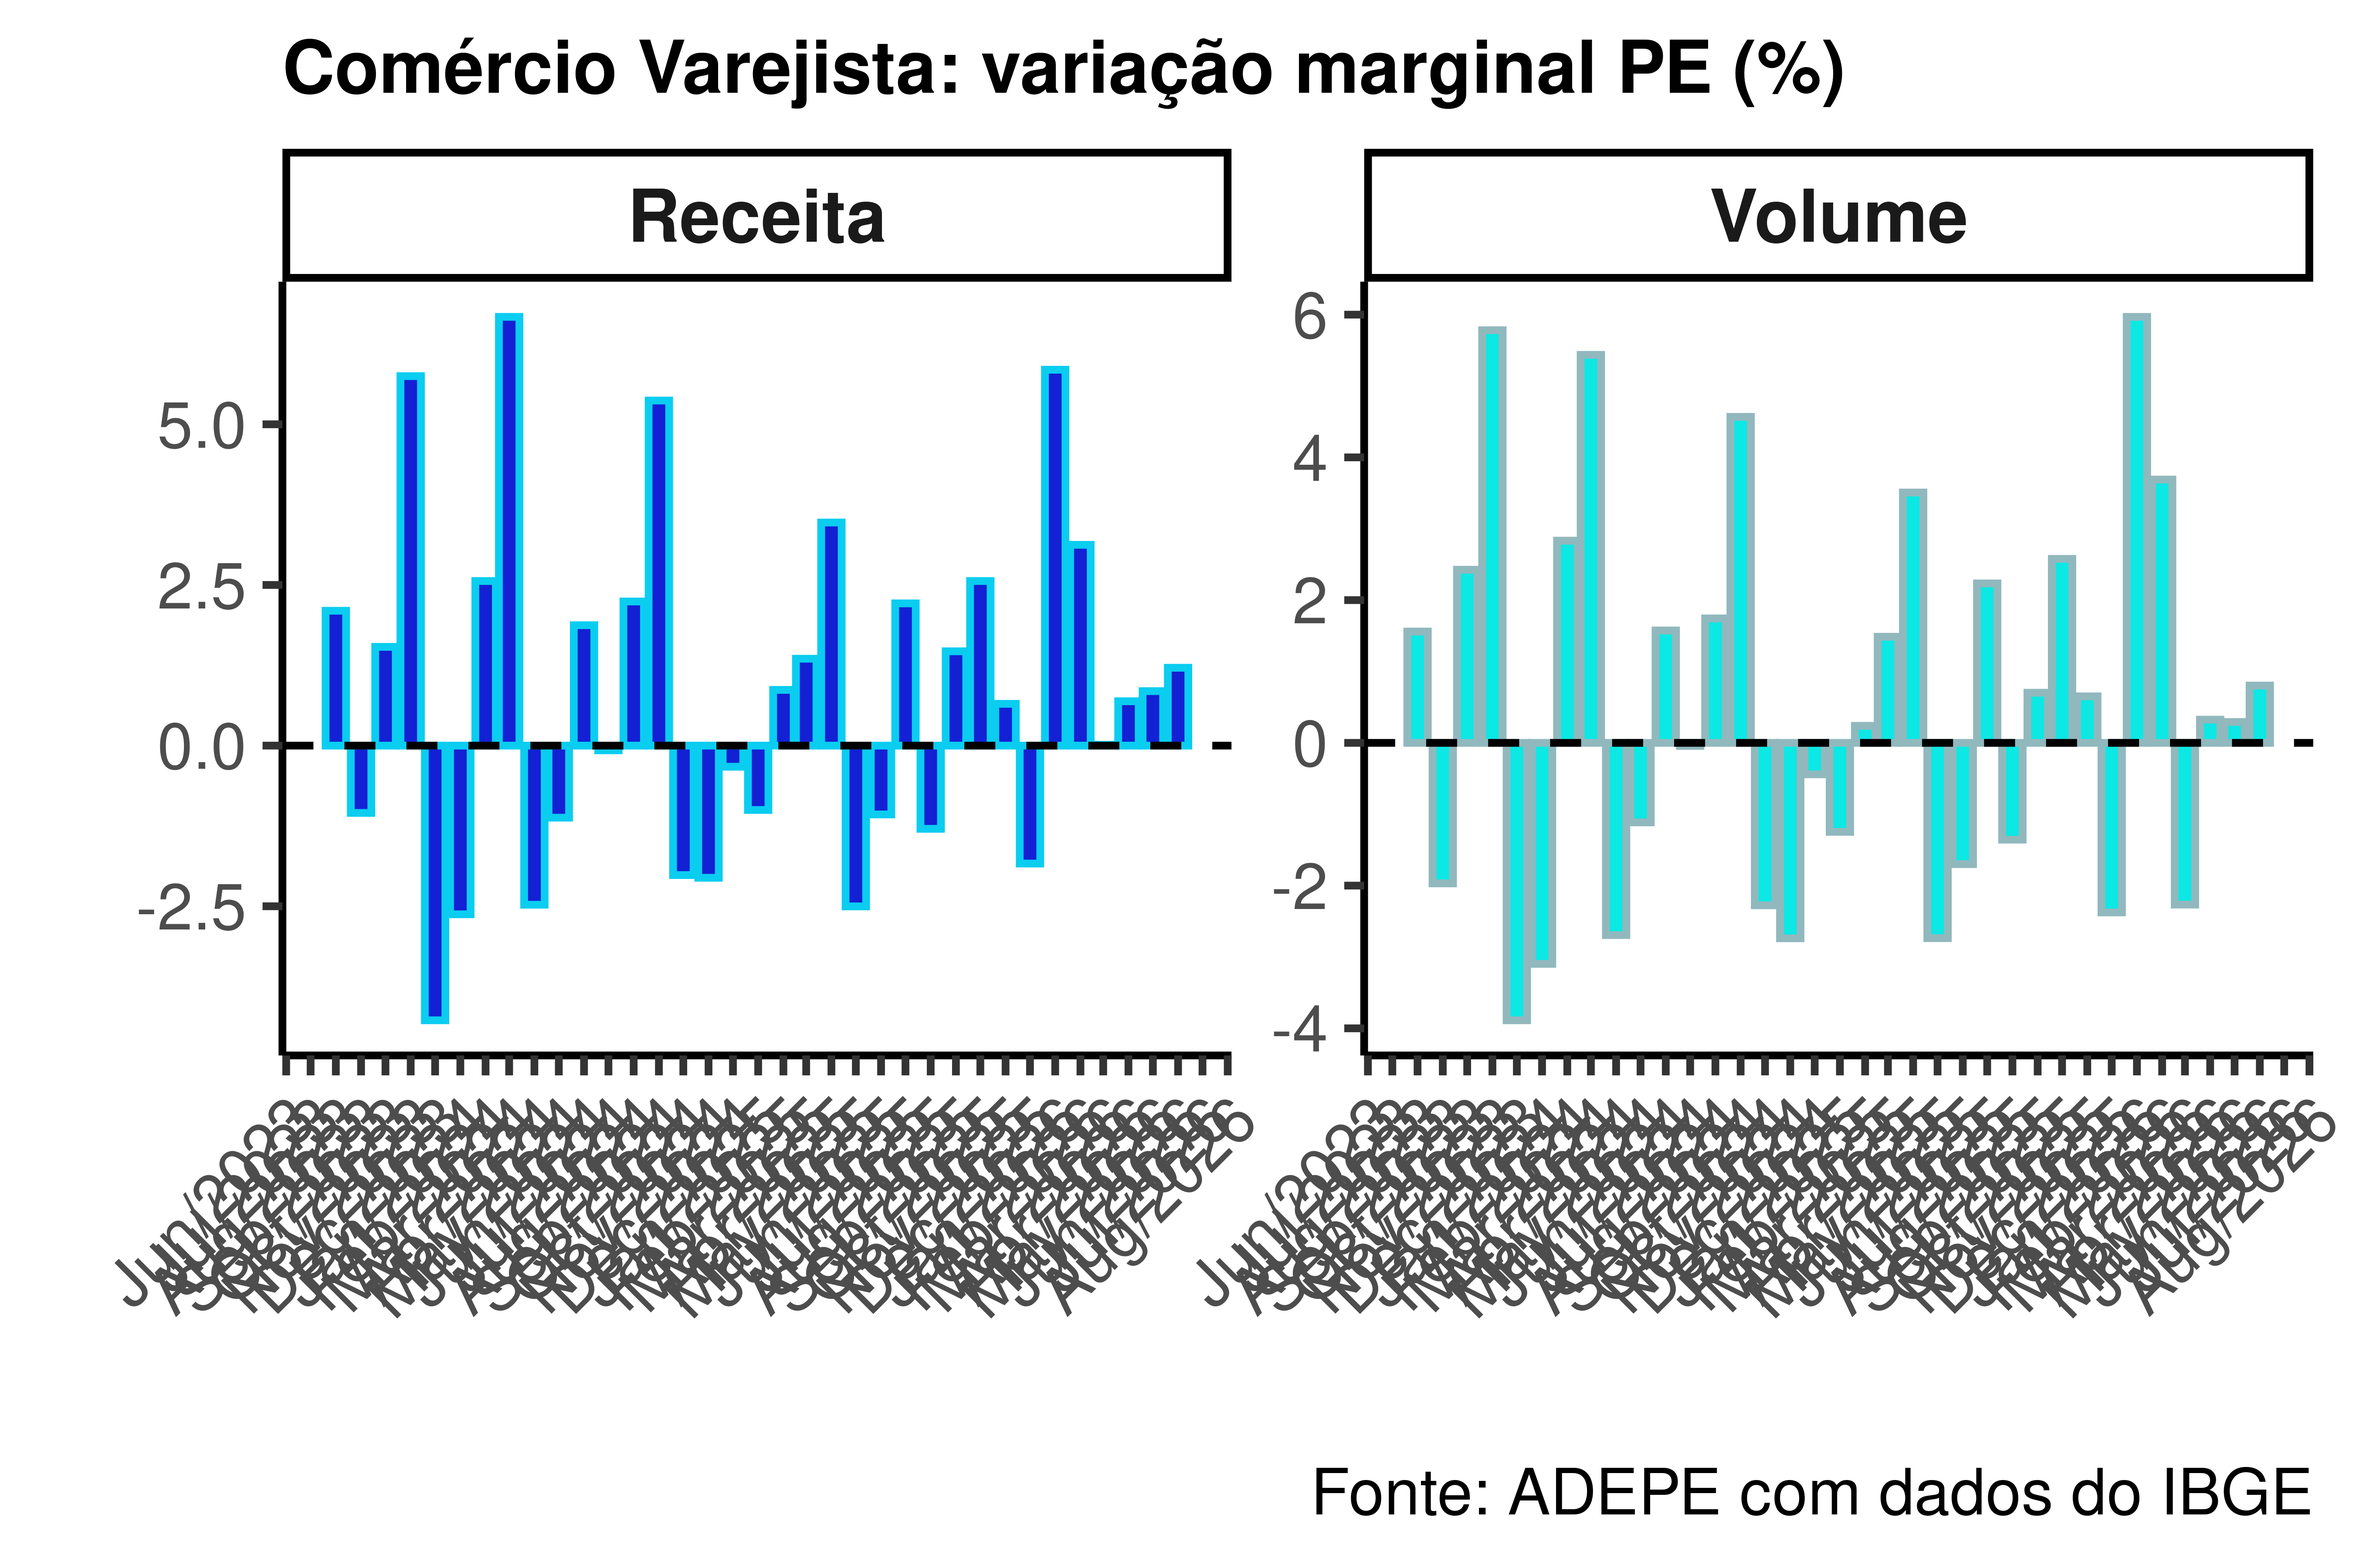
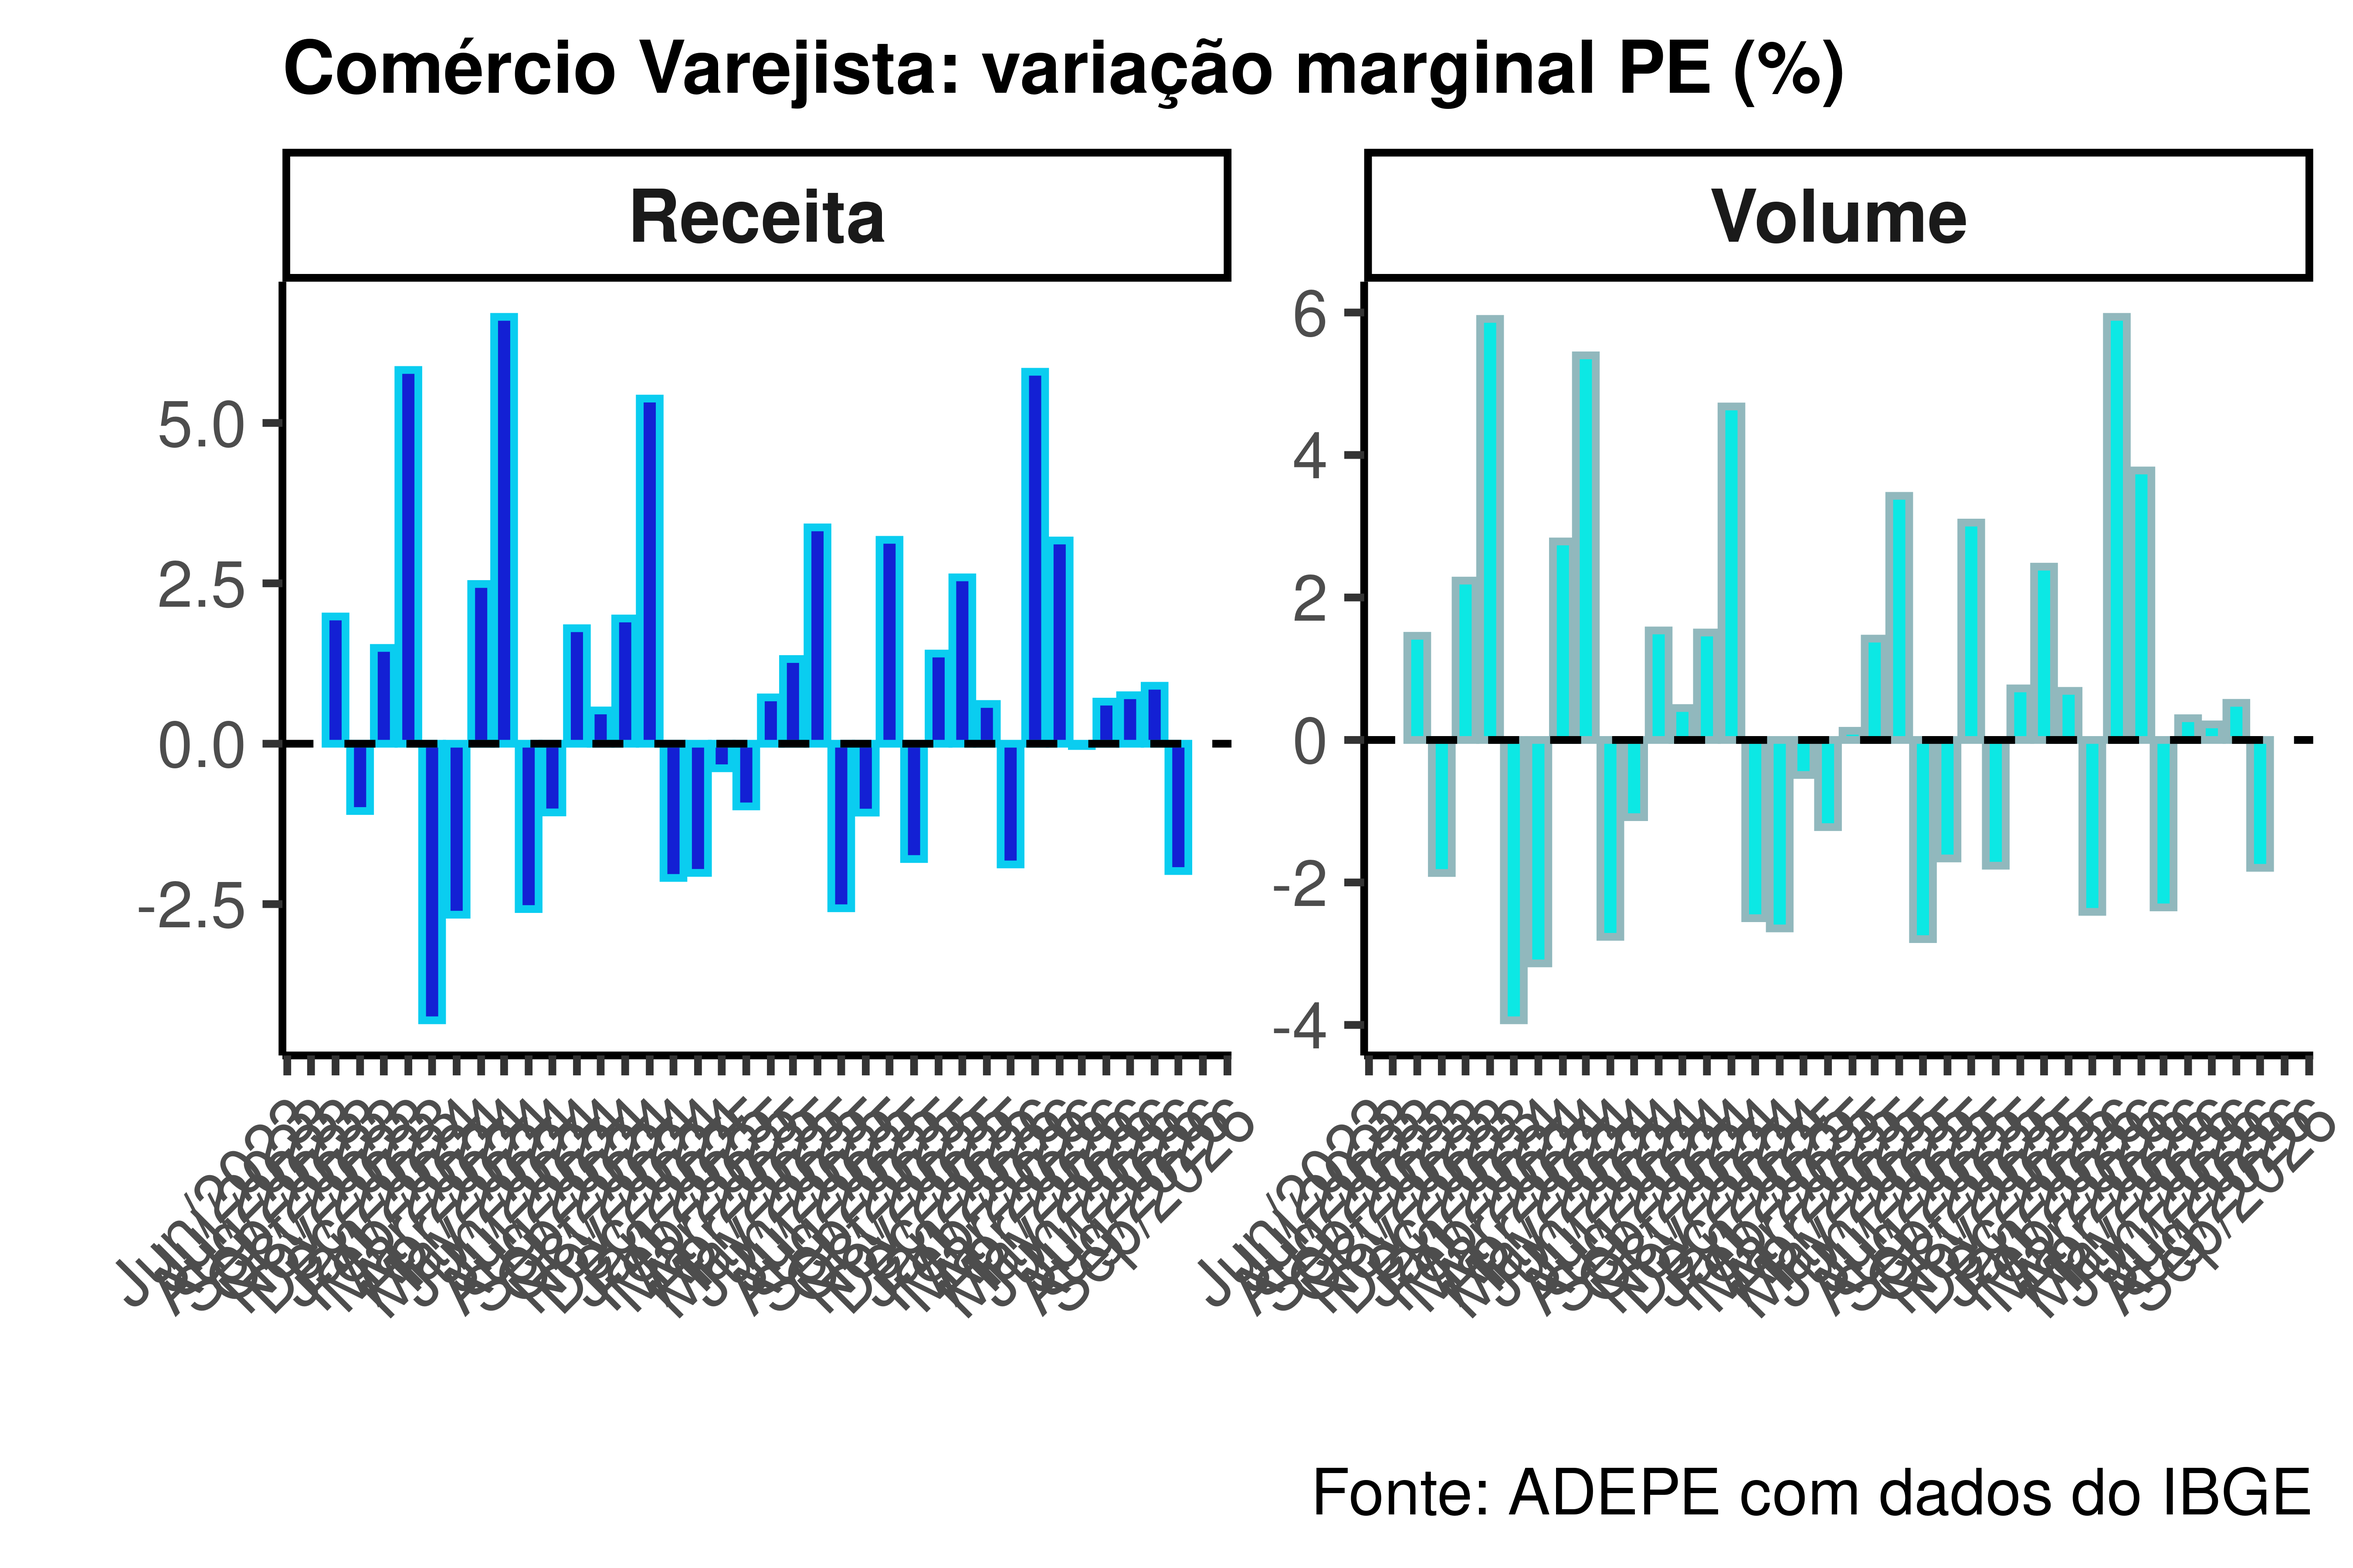
Atualização de relatório automatizada

diff --git a/relatório_nivel_atividade/pesquisas.html b/relatório_nivel_atividade/pesquisas.html
@@ -418,34 +418,34 @@ Nota
 </thead>
 <tbody>
 <tr class="odd">
-<td style="text-align: center;">2026-01-01</td>
-<td style="text-align: center;">5.85</td>
-<td style="text-align: center;">5.97</td>
-</tr>
-<tr class="even">
 <td style="text-align: center;">2026-02-01</td>
-<td style="text-align: center;">3.12</td>
-<td style="text-align: center;">3.69</td>
+<td style="text-align: center;">3.17</td>
+<td style="text-align: center;">3.78</td>
 </tr>
-<tr class="odd">
+<tr class="even">
 <td style="text-align: center;">2026-03-01</td>
-<td style="text-align: center;">0.01</td>
-<td style="text-align: center;">-2.27</td>
-</tr>
-<tr class="even">
-<td style="text-align: center;">2026-04-01</td>
-<td style="text-align: center;">0.69</td>
-<td style="text-align: center;">0.32</td>
+<td style="text-align: center;">-0.04</td>
+<td style="text-align: center;">-2.35</td>
 </tr>
 <tr class="odd">
-<td style="text-align: center;">2026-05-01</td>
-<td style="text-align: center;">0.85</td>
-<td style="text-align: center;">0.29</td>
+<td style="text-align: center;">2026-04-01</td>
+<td style="text-align: center;">0.66</td>
+<td style="text-align: center;">0.31</td>
 </tr>
 <tr class="even">
+<td style="text-align: center;">2026-05-01</td>
+<td style="text-align: center;">0.76</td>
+<td style="text-align: center;">0.22</td>
+</tr>
+<tr class="odd">
 <td style="text-align: center;">2026-06-01</td>
-<td style="text-align: center;">1.21</td>
-<td style="text-align: center;">0.80</td>
+<td style="text-align: center;">0.90</td>
+<td style="text-align: center;">0.52</td>
+</tr>
+<tr class="even">
+<td style="text-align: center;">2026-07-01</td>
+<td style="text-align: center;">-1.98</td>
+<td style="text-align: center;">-1.79</td>
 </tr>
 </tbody>
 </table>
@@ -466,34 +466,34 @@ Nota
 </thead>
 <tbody>
 <tr class="odd">
-<td style="text-align: center;">2026-01-01</td>
-<td style="text-align: center;">12.02</td>
-<td style="text-align: center;">9.31</td>
-</tr>
-<tr class="even">
 <td style="text-align: center;">2026-02-01</td>
-<td style="text-align: center;">7.92</td>
-<td style="text-align: center;">5.53</td>
+<td style="text-align: center;">8.08</td>
+<td style="text-align: center;">5.72</td>
 </tr>
-<tr class="odd">
+<tr class="even">
 <td style="text-align: center;">2026-03-01</td>
-<td style="text-align: center;">21.13</td>
-<td style="text-align: center;">17.32</td>
-</tr>
-<tr class="even">
-<td style="text-align: center;">2026-04-01</td>
-<td style="text-align: center;">10.10</td>
-<td style="text-align: center;">5.47</td>
+<td style="text-align: center;">21.30</td>
+<td style="text-align: center;">17.51</td>
 </tr>
 <tr class="odd">
-<td style="text-align: center;">2026-05-01</td>
-<td style="text-align: center;">11.30</td>
-<td style="text-align: center;">6.31</td>
+<td style="text-align: center;">2026-04-01</td>
+<td style="text-align: center;">10.29</td>
+<td style="text-align: center;">5.69</td>
 </tr>
 <tr class="even">
+<td style="text-align: center;">2026-05-01</td>
+<td style="text-align: center;">11.52</td>
+<td style="text-align: center;">6.56</td>
+</tr>
+<tr class="odd">
 <td style="text-align: center;">2026-06-01</td>
-<td style="text-align: center;">18.97</td>
-<td style="text-align: center;">13.93</td>
+<td style="text-align: center;">18.93</td>
+<td style="text-align: center;">13.90</td>
+</tr>
+<tr class="even">
+<td style="text-align: center;">2026-07-01</td>
+<td style="text-align: center;">10.22</td>
+<td style="text-align: center;">6.08</td>
 </tr>
 </tbody>
 </table>
@@ -514,34 +514,34 @@ Nota
 </thead>
 <tbody>
 <tr class="odd">
-<td style="text-align: center;">2026-01-01</td>
-<td style="text-align: center;">4.92</td>
-<td style="text-align: center;">1.40</td>
-</tr>
-<tr class="even">
 <td style="text-align: center;">2026-02-01</td>
-<td style="text-align: center;">4.75</td>
-<td style="text-align: center;">1.40</td>
+<td style="text-align: center;">4.76</td>
+<td style="text-align: center;">1.41</td>
 </tr>
-<tr class="odd">
+<tr class="even">
 <td style="text-align: center;">2026-03-01</td>
-<td style="text-align: center;">6.73</td>
-<td style="text-align: center;">3.36</td>
-</tr>
-<tr class="even">
-<td style="text-align: center;">2026-04-01</td>
-<td style="text-align: center;">6.89</td>
-<td style="text-align: center;">3.43</td>
+<td style="text-align: center;">6.76</td>
+<td style="text-align: center;">3.39</td>
 </tr>
 <tr class="odd">
-<td style="text-align: center;">2026-05-01</td>
-<td style="text-align: center;">7.23</td>
-<td style="text-align: center;">3.67</td>
+<td style="text-align: center;">2026-04-01</td>
+<td style="text-align: center;">6.93</td>
+<td style="text-align: center;">3.48</td>
 </tr>
 <tr class="even">
+<td style="text-align: center;">2026-05-01</td>
+<td style="text-align: center;">7.29</td>
+<td style="text-align: center;">3.74</td>
+</tr>
+<tr class="odd">
 <td style="text-align: center;">2026-06-01</td>
-<td style="text-align: center;">8.36</td>
-<td style="text-align: center;">4.69</td>
+<td style="text-align: center;">8.42</td>
+<td style="text-align: center;">4.76</td>
+</tr>
+<tr class="even">
+<td style="text-align: center;">2026-07-01</td>
+<td style="text-align: center;">8.77</td>
+<td style="text-align: center;">5.12</td>
 </tr>
 </tbody>
 </table>
@@ -584,65 +584,65 @@ Nota
 <table class="table table-sm table-striped small">
 <caption>Variações interanuais de Receita</caption>
 <colgroup>
-<col style="width: 90%">
-<col style="width: 10%">
+<col style="width: 88%">
+<col style="width: 11%">
 </colgroup>
 <tbody>
 <tr class="odd">
 <td style="text-align: left;">Artigos farmacêuticos</td>
-<td style="text-align: center;">5.11</td>
+<td style="text-align: center;">-0.28</td>
 </tr>
 <tr class="even">
 <td style="text-align: left;">Atacado especializado em produtos alimentícios, bebidas e fumo</td>
-<td style="text-align: center;">24.81</td>
+<td style="text-align: center;">-0.97</td>
 </tr>
 <tr class="odd">
 <td style="text-align: left;">Combustíveis e lubrificantes</td>
-<td style="text-align: center;">4.00</td>
+<td style="text-align: center;">7.14</td>
 </tr>
 <tr class="even">
 <td style="text-align: left;">Eletrodomésticos</td>
-<td style="text-align: center;">-9.17</td>
+<td style="text-align: center;">-15.91</td>
 </tr>
 <tr class="odd">
 <td style="text-align: left;">Materiais para escritório</td>
-<td style="text-align: center;">29.95</td>
+<td style="text-align: center;">5.04</td>
 </tr>
 <tr class="even">
 <td style="text-align: left;">Hipermercados e supermercados</td>
-<td style="text-align: center;">34.18</td>
+<td style="text-align: center;">39.17</td>
 </tr>
 <tr class="odd">
 <td style="text-align: left;">Hipermercados, supermercados e outros</td>
-<td style="text-align: center;">28.88</td>
+<td style="text-align: center;">32.52</td>
 </tr>
 <tr class="even">
 <td style="text-align: left;">Livros, jornais, revistas e papelaria</td>
-<td style="text-align: center;">1.09</td>
+<td style="text-align: center;">9.38</td>
 </tr>
 <tr class="odd">
 <td style="text-align: left;">Material de construção</td>
-<td style="text-align: center;">6.33</td>
+<td style="text-align: center;">2.13</td>
 </tr>
 <tr class="even">
 <td style="text-align: left;">Móveis</td>
-<td style="text-align: center;">20.64</td>
+<td style="text-align: center;">29.18</td>
 </tr>
 <tr class="odd">
 <td style="text-align: left;">Móveis e eletrodomésticos</td>
-<td style="text-align: center;">-1.99</td>
+<td style="text-align: center;">-5.89</td>
 </tr>
 <tr class="even">
 <td style="text-align: left;">Outros artigos de uso pessoal e doméstico</td>
-<td style="text-align: center;">7.20</td>
+<td style="text-align: center;">-11.43</td>
 </tr>
 <tr class="odd">
 <td style="text-align: left;">Tecidos, vestuário e calçados</td>
-<td style="text-align: center;">-1.98</td>
+<td style="text-align: center;">0.05</td>
 </tr>
 <tr class="even">
 <td style="text-align: left;">Veículos, motocicletas, partes e peças</td>
-<td style="text-align: center;">29.78</td>
+<td style="text-align: center;">13.17</td>
 </tr>
 </tbody>
 </table>
